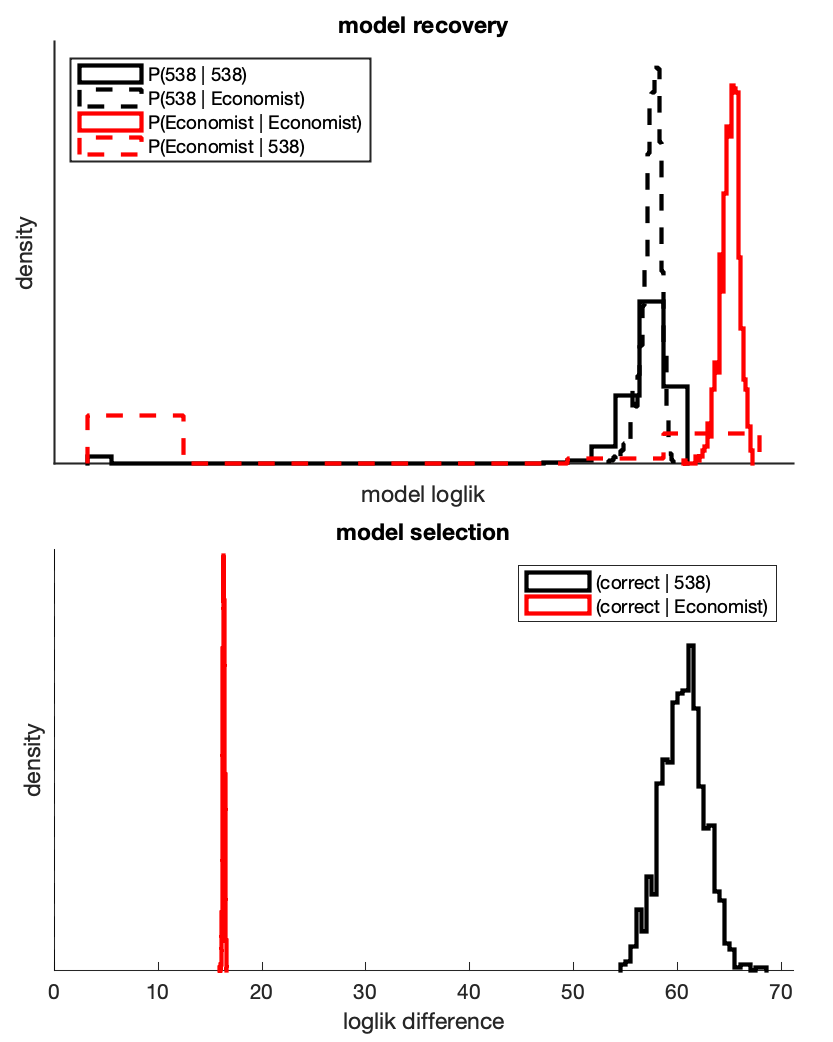
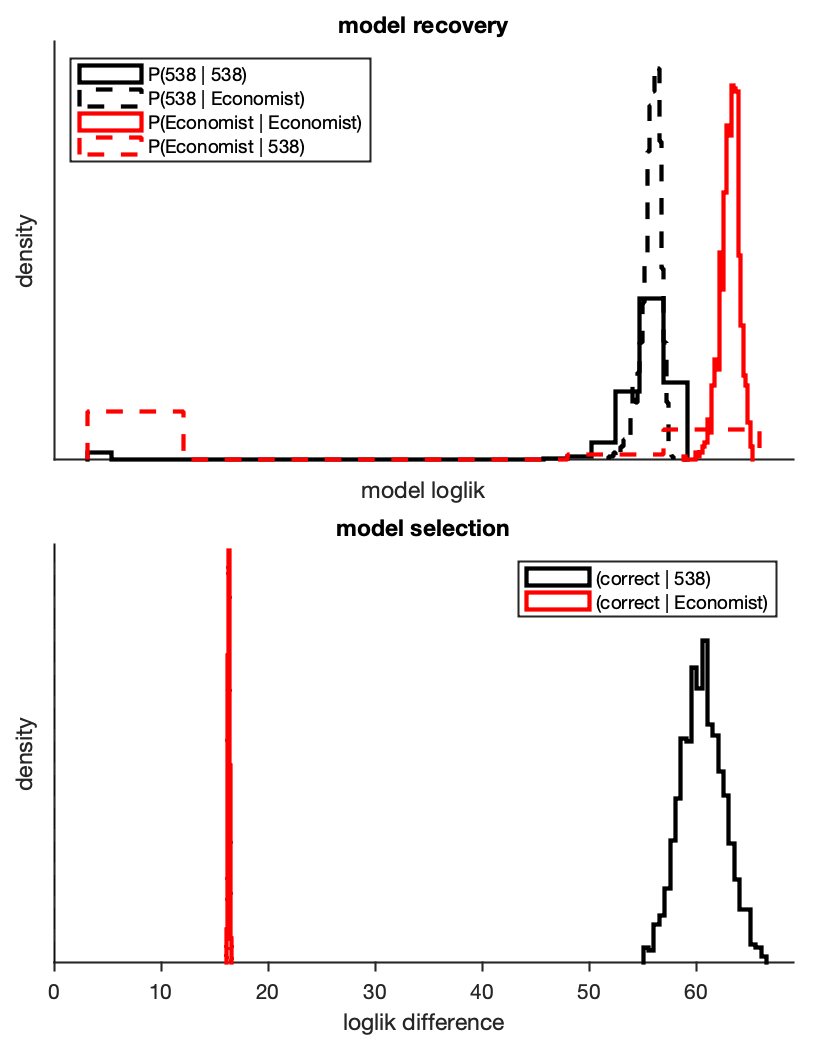
better axes

diff --git a/compare_models.m b/compare_models.m
@@ -155,6 +155,8 @@ lik_Econ_538    = mvksdensity(tblEcon{1:39000,:}, tbl538{39001:end,:}, 'bandwidt
 f_modelRec = figure('Renderer', 'painters', 'Position', [0 0 400 500]); hold on;
 tiledlayout('flow','TileSpacing', 'compact', 'Padding', 'compact');
 
+
+
 nexttile; hold on;
 histogram(log(1+lik_538_538), 'Normalization', 'pdf', 'DisplayStyle', 'stairs', 'EdgeColor', 'k', 'LineStyle', '-', 'LineWidth', 2)
 histogram(log(1+lik_538_Econ), 'Normalization', 'pdf', 'DisplayStyle', 'stairs', 'EdgeColor', 'k', 'LineStyle', '--', 'LineWidth', 2)
@@ -188,6 +190,7 @@ yticks([])
 ylabel('density')
 title('model selection')
 xlabel('loglik difference')
+set(gca, 'TickDir', 'out', 'LineWidth', 1)
 
 
 saveas(f_modelRec, './figures/modelRecovery.png') 
